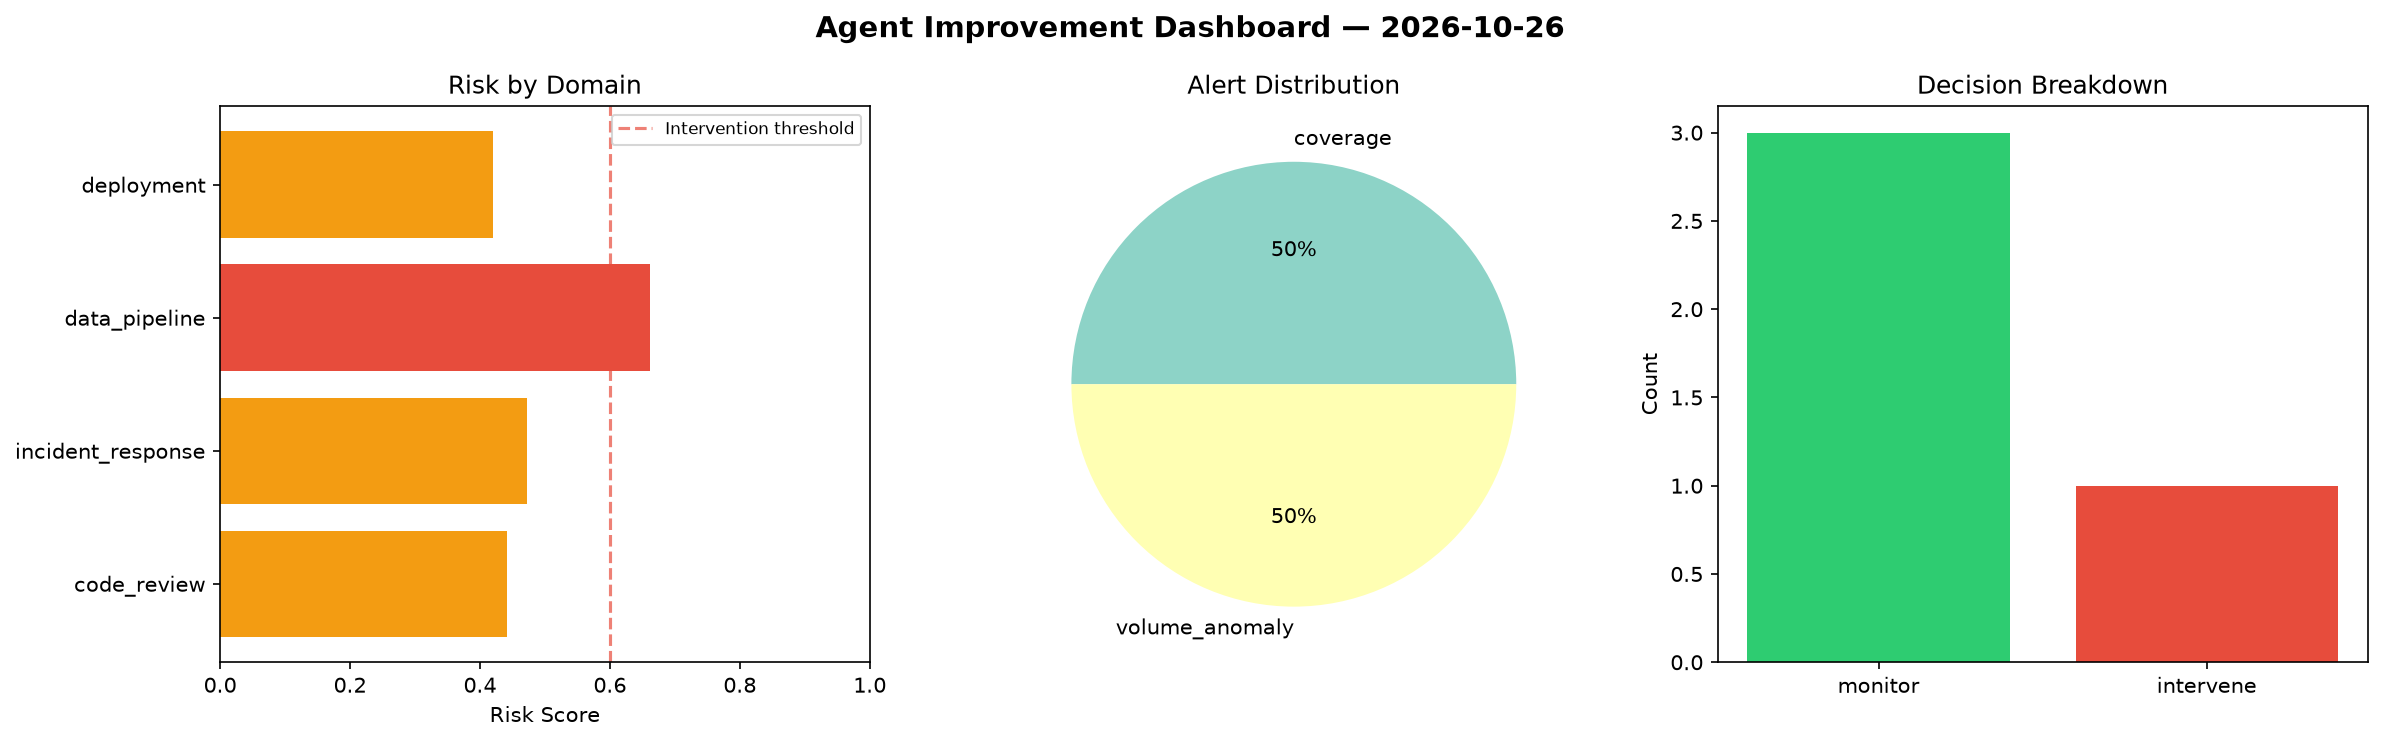
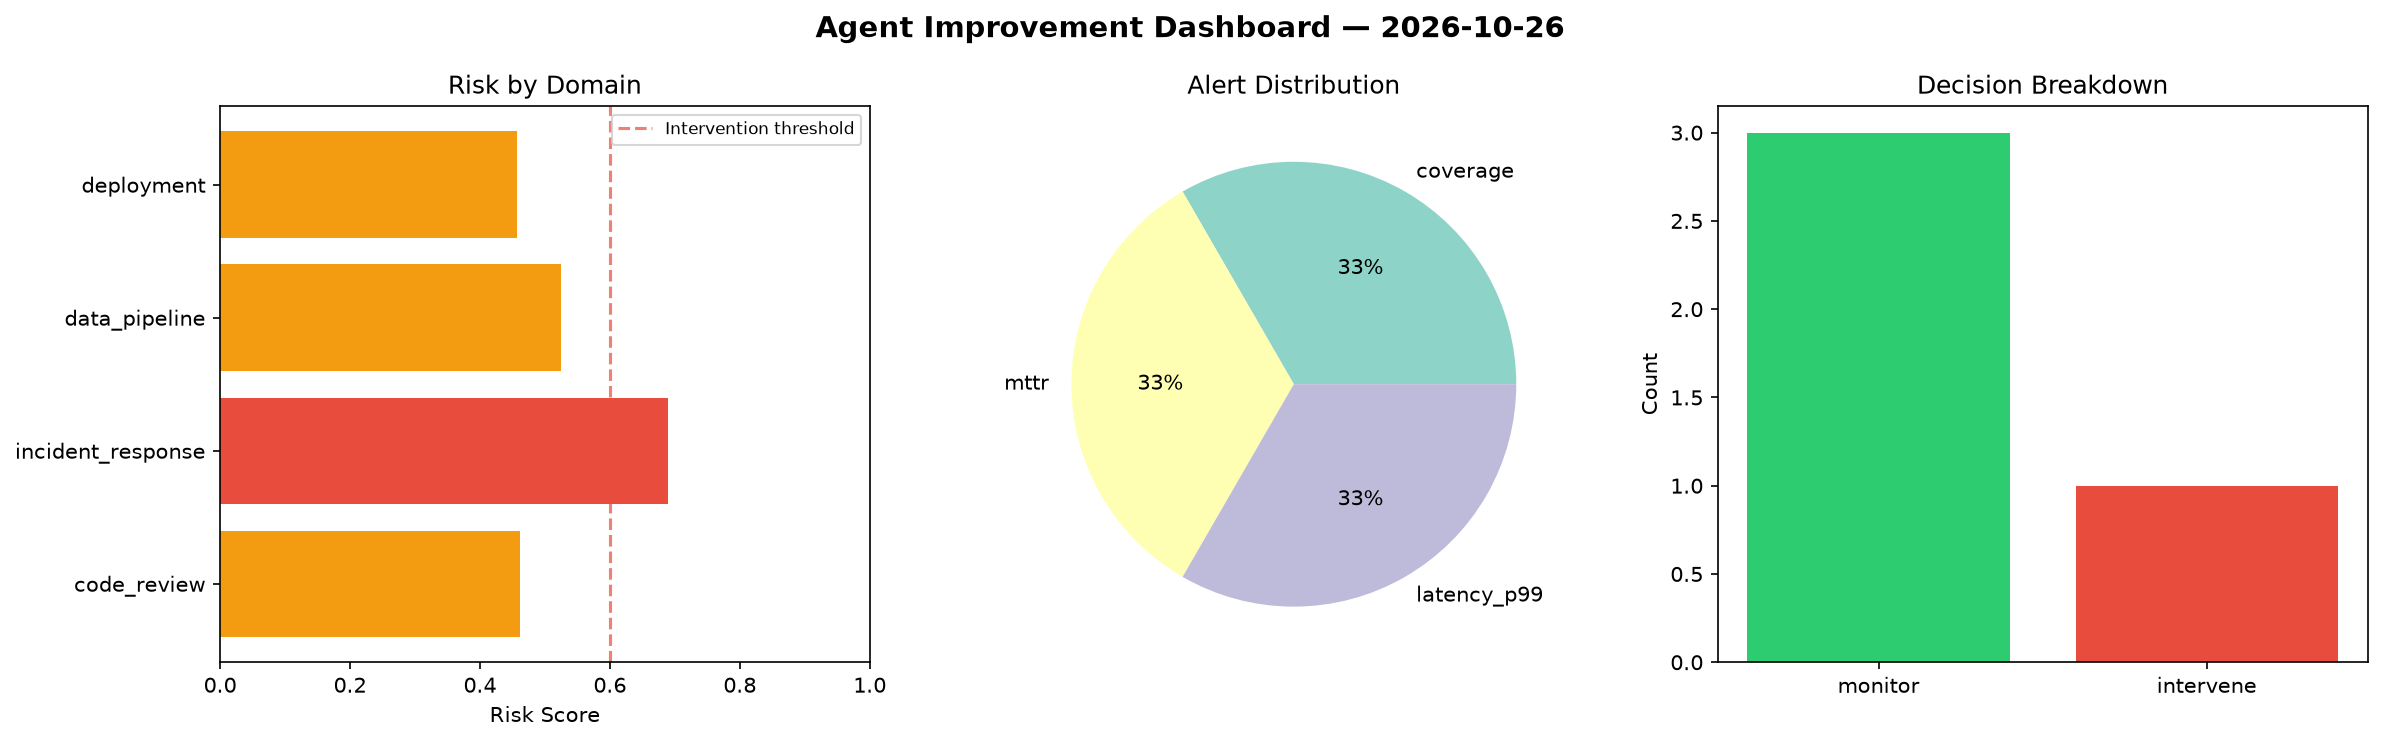
agent-improvement: daily cycle 2026-10-26T23:50

diff --git a/logs/2026-10-26.md b/logs/2026-10-26.md
@@ -1,6 +1,6 @@
 # Agent Improvement Report — 2026-10-26
 
-**Cycle ID:** `c133361b` | **Avg Risk:** 0.4992 | **Interventions:** 1/4
+**Cycle ID:** `9eb21eb4` | **Avg Risk:** 0.5333 | **Interventions:** 1/4
 
 ![Dashboard](2026-10-26_dashboard.png)
 
@@ -10,18 +10,18 @@
 
 | Domain | Risk Score | Decision | Alerts |
 |--------|-----------|----------|--------|
-| code_review | 0.4418 | monitor | coverage |
-| incident_response | 0.472 | monitor | none |
-| data_pipeline | 0.6624 | intervene | volume_anomaly |
-| deployment | 0.4205 | monitor | none |
+| code_review | 0.4622 | monitor | coverage |
+| incident_response | 0.6893 | intervene | mttr |
+| data_pipeline | 0.5245 | monitor | none |
+| deployment | 0.4574 | monitor | latency_p99 |
 
 ## Delta vs Yesterday
 
 | Domain | Today | Yesterday | Change |
 |--------|-------|-----------|--------|
-| code_review | 0.4418 | 0.1567 | 📈 181.9% |
-| incident_response | 0.472 | 0.5243 | 📉 -10.0% |
-| data_pipeline | 0.6624 | 0.7507 | 📉 -11.8% |
-| deployment | 0.4205 | 0.5617 | 📉 -25.1% |
+| code_review | 0.4622 | 0.1567 | 📈 195.0% |
+| incident_response | 0.6893 | 0.5243 | 📈 31.5% |
+| data_pipeline | 0.5245 | 0.7507 | 📉 -30.1% |
+| deployment | 0.4574 | 0.5617 | 📉 -18.6% |
 
 **Refinement:** `{'adjustment': 'maintain', 'trend': 'improving', 'window': 4}`
